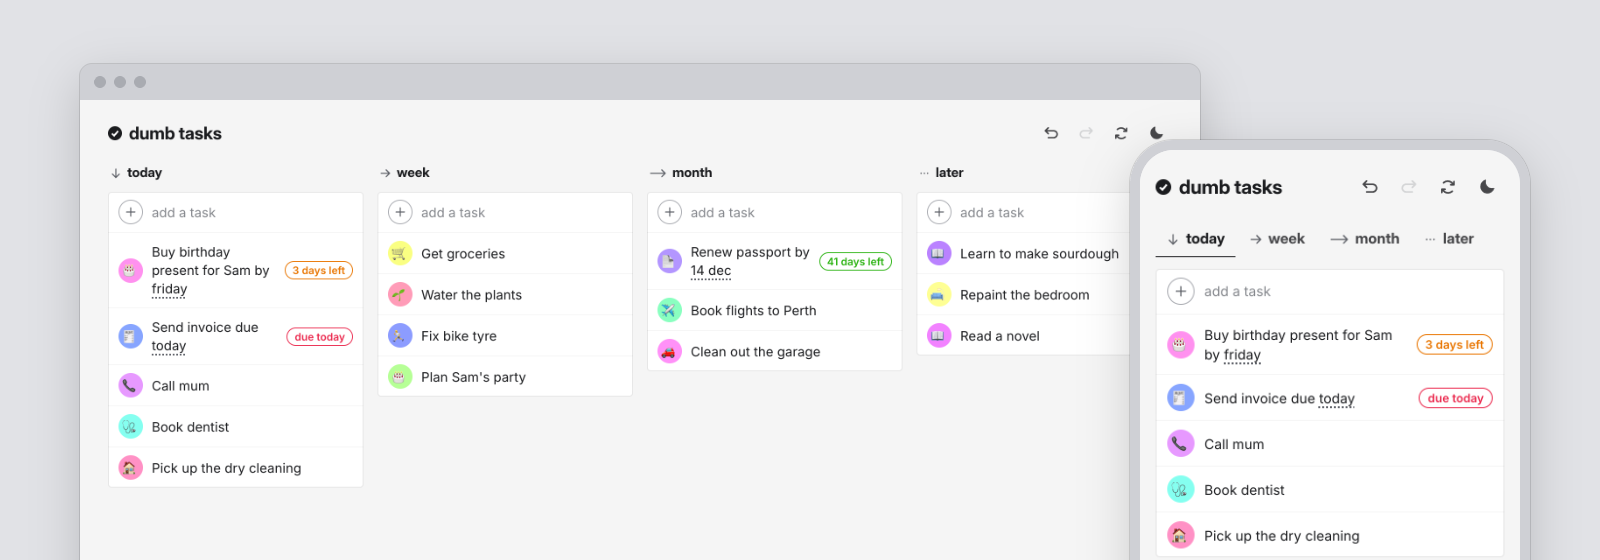
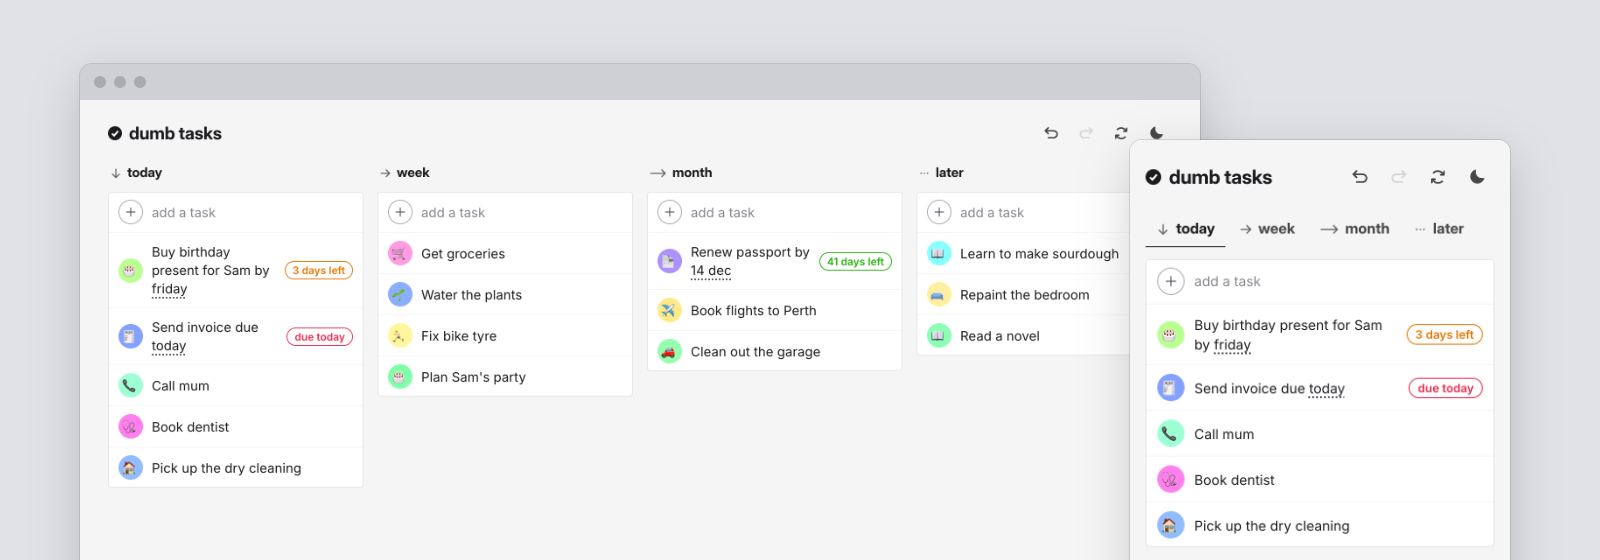
Give phone preview thin edge like desktop

diff --git a/scripts/make-preview-image.js b/scripts/make-preview-image.js
@@ -39,7 +39,7 @@ const THEMES = {
     muted: '#5f6269',
     onText: '#ffffff',
     edge: '0 0 0 1px rgb(0 0 0 / 0.1)',
-    // The README's devices: a darker backdrop, framed like a window bar (dots for buttons)
+    // The README's screens: a darker backdrop, and a window bar (dots for buttons) on the desktop
     backdrop: '#e1e2e6',
     frame: '#cfd0d5',
     dots: '#a9abb1',
@@ -215,9 +215,7 @@ for (const [name, theme] of Object.entries(THEMES)) {
         left: 1130px;
         top: 140px;
         width: 380px;
-        border: 10px solid ${theme.frame}; /* same as the desktop's window bar */
-        border-bottom: none;
-        border-radius: 44px 44px 0 0;
+        border-radius: 12px 12px 0 0;
         box-shadow: ${theme.lift};
       }
     </style>
